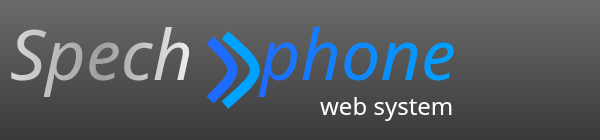
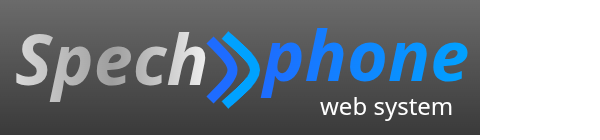
### TÍTULO Ajustar organização de tags SVG e otimizar metadados no logotipo
### CORPO DO COMMIT
- **Problema:** O logotipo em SVG continha inconsistências na organização das tags, resultando em código menos legível e maior dificuldade na manutenção. Além disso, o uso do metadado do `og:image` apontava para um arquivo desatualizado.
- **Solução:** Reorganizadas as tags do arquivo `logo.svg` para melhorar a legibilidade e consistência do código. Atualizado o valor do metadado `og:image` em `plugins/Request/modules/includes/head.html` para apontar para o novo arquivo otimizado.

### MUDANÇAS RELEVANTES
- **Alterado:** Estrutura e organização das tags no arquivo `logo.svg`.
- **Alterado:** Caminho do metadado `og:image` para o logotipo atualizado em `plugins/Request/modules/includes/head.html`.

### IMPACTOS, RISCOS OU LIMITAÇÕES
Nenhum efeito colateral conhecido até o momento.

diff --git a/plugins/Request/modules/includes/head.html b/plugins/Request/modules/includes/head.html
@@ -6,7 +6,7 @@
     <!-- fav icon -->
     <link rel="icon" href="img/pyramid.png" sizes="32x32" type="image/png">
     <link rel="icon" href="img/favicon.ico" type="image/x-icon">
-    <meta content="logo.png" property="og:image">
+    <meta content="https://phone.spechshop.com/svgviewer-png-output.png" property="og:image">
 
 
     <!--
